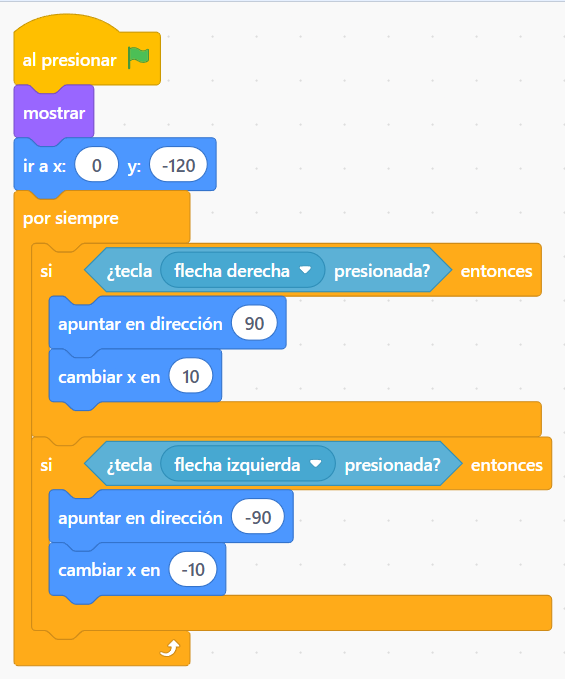
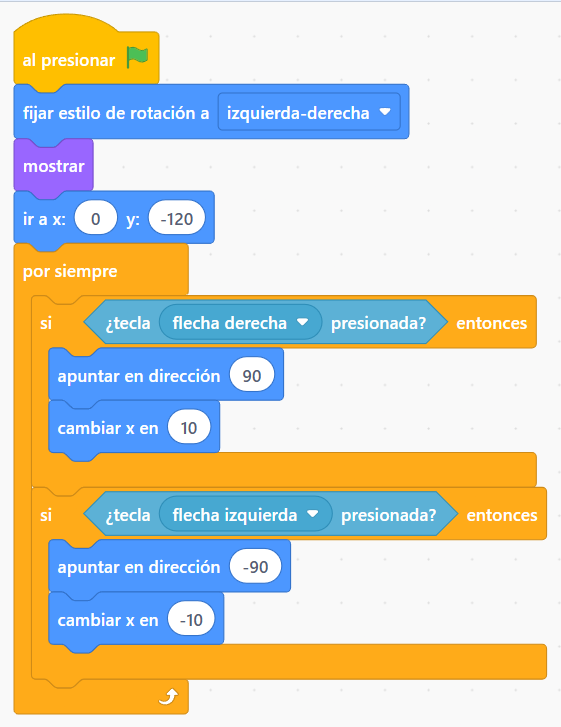
Gato: fijar estilo de rotación izquierda-derecha

diff --git a/gato-manzana-piedra.html b/gato-manzana-piedra.html
@@ -43,8 +43,8 @@
   <div class="num">3</div>
   <div class="cuerpo">
     <h3>Programá al Gato </h3>
-    <p>El gato se mueve con las flechas <b>←</b> y <b>→</b>. El bloque <b>apuntar en dirección</b> hace que el gato mire para el lado que camina.</p>
-    <p class="tip">💡 Para que el gato no quede patas para arriba: en el objeto Gato, poné el estilo de rotación “izquierda-derecha” (tocando “Dirección”).</p>
+    <p>El gato se mueve con las flechas <b>←</b> y <b>→</b>. El bloque <b>apuntar en dirección</b> hace que el gato mire para el lado que camina.</p><p>¡Importante! Agregá arriba de todo el bloque <b>fijar estilo de rotación a izquierda-derecha</b> (en <b>Movimiento</b>). Sin ese bloque, cuando el gato va a la izquierda <b>queda de cabeza</b>.</p>
+    <p class="tip">💡 Si tu gato ya quedó de cabeza, agregá ese bloque y tocá la bandera verde de nuevo.</p>
     <div class="figs"><figure><img src="gato.png" alt="Código del Gato" loading="lazy"><figcaption>Código del Gato</figcaption></figure></div>
   </div>
 </section><section class="paso">
